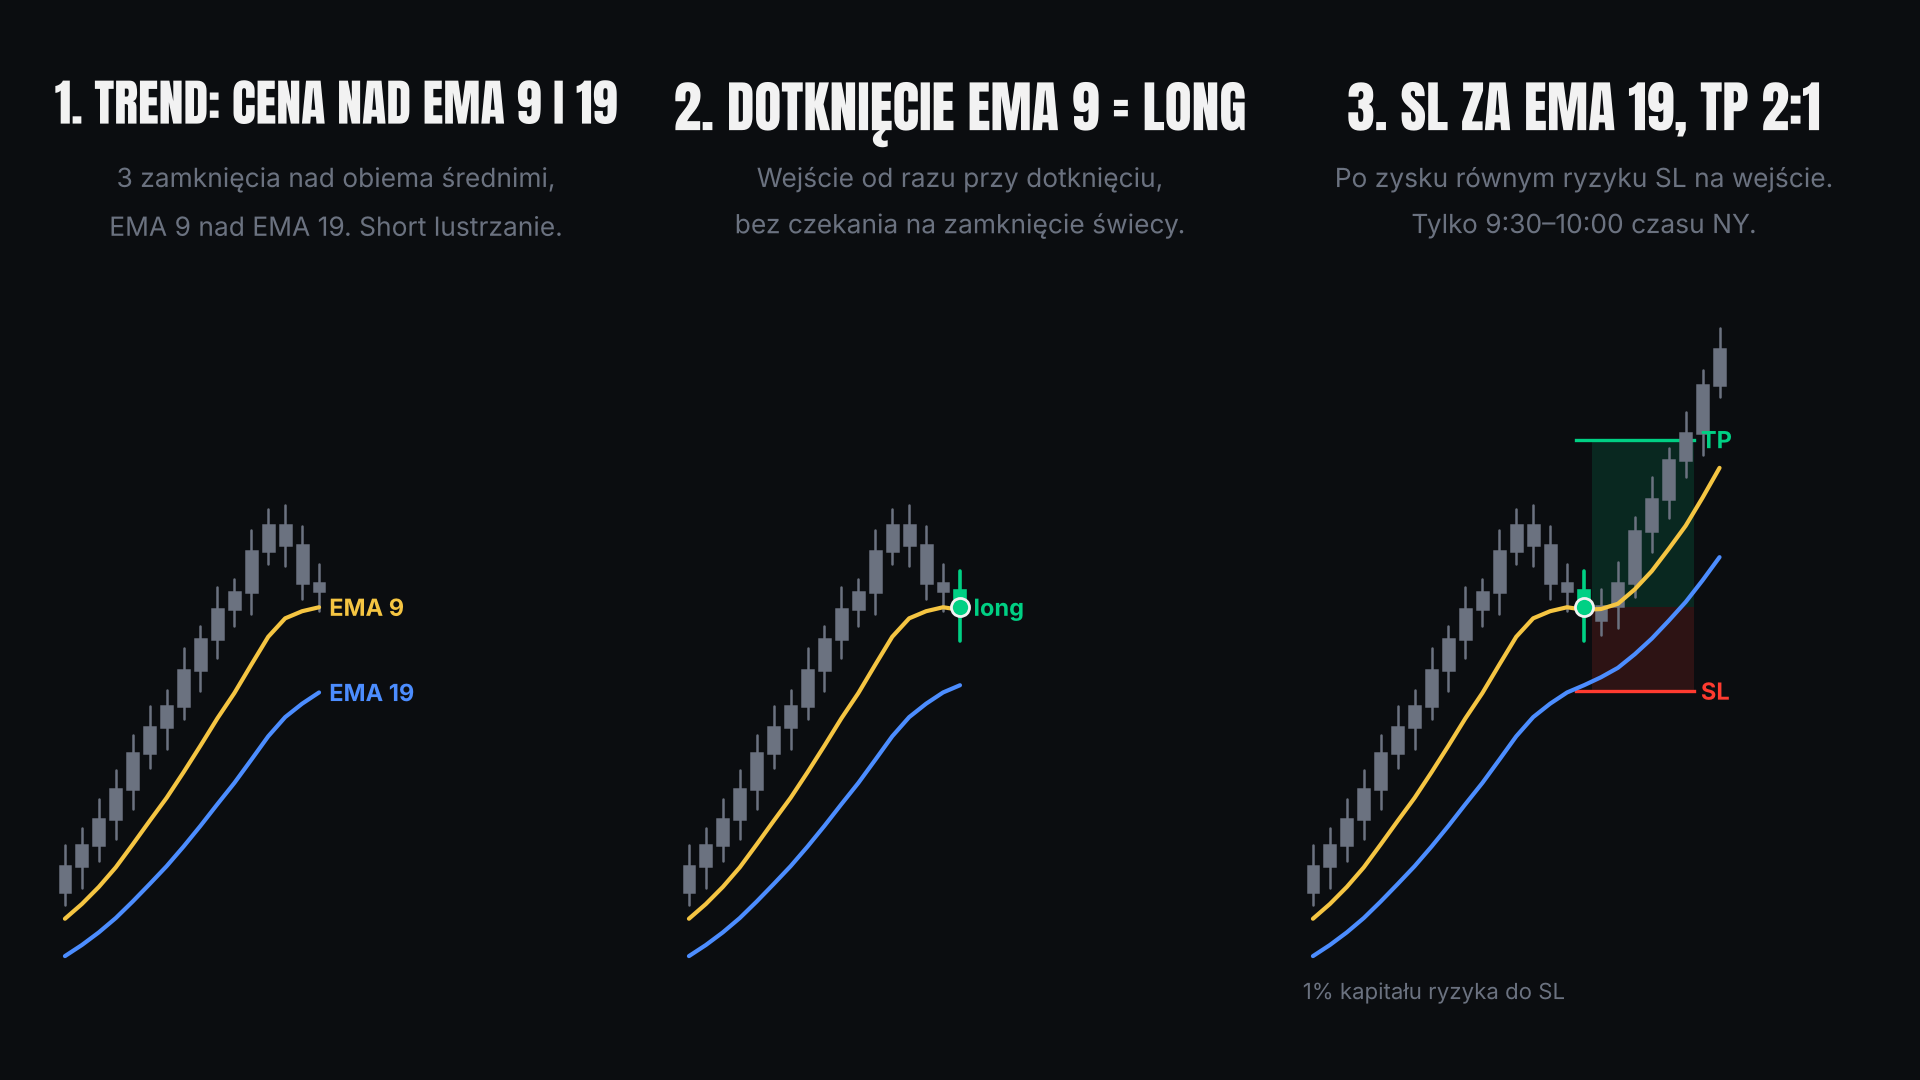
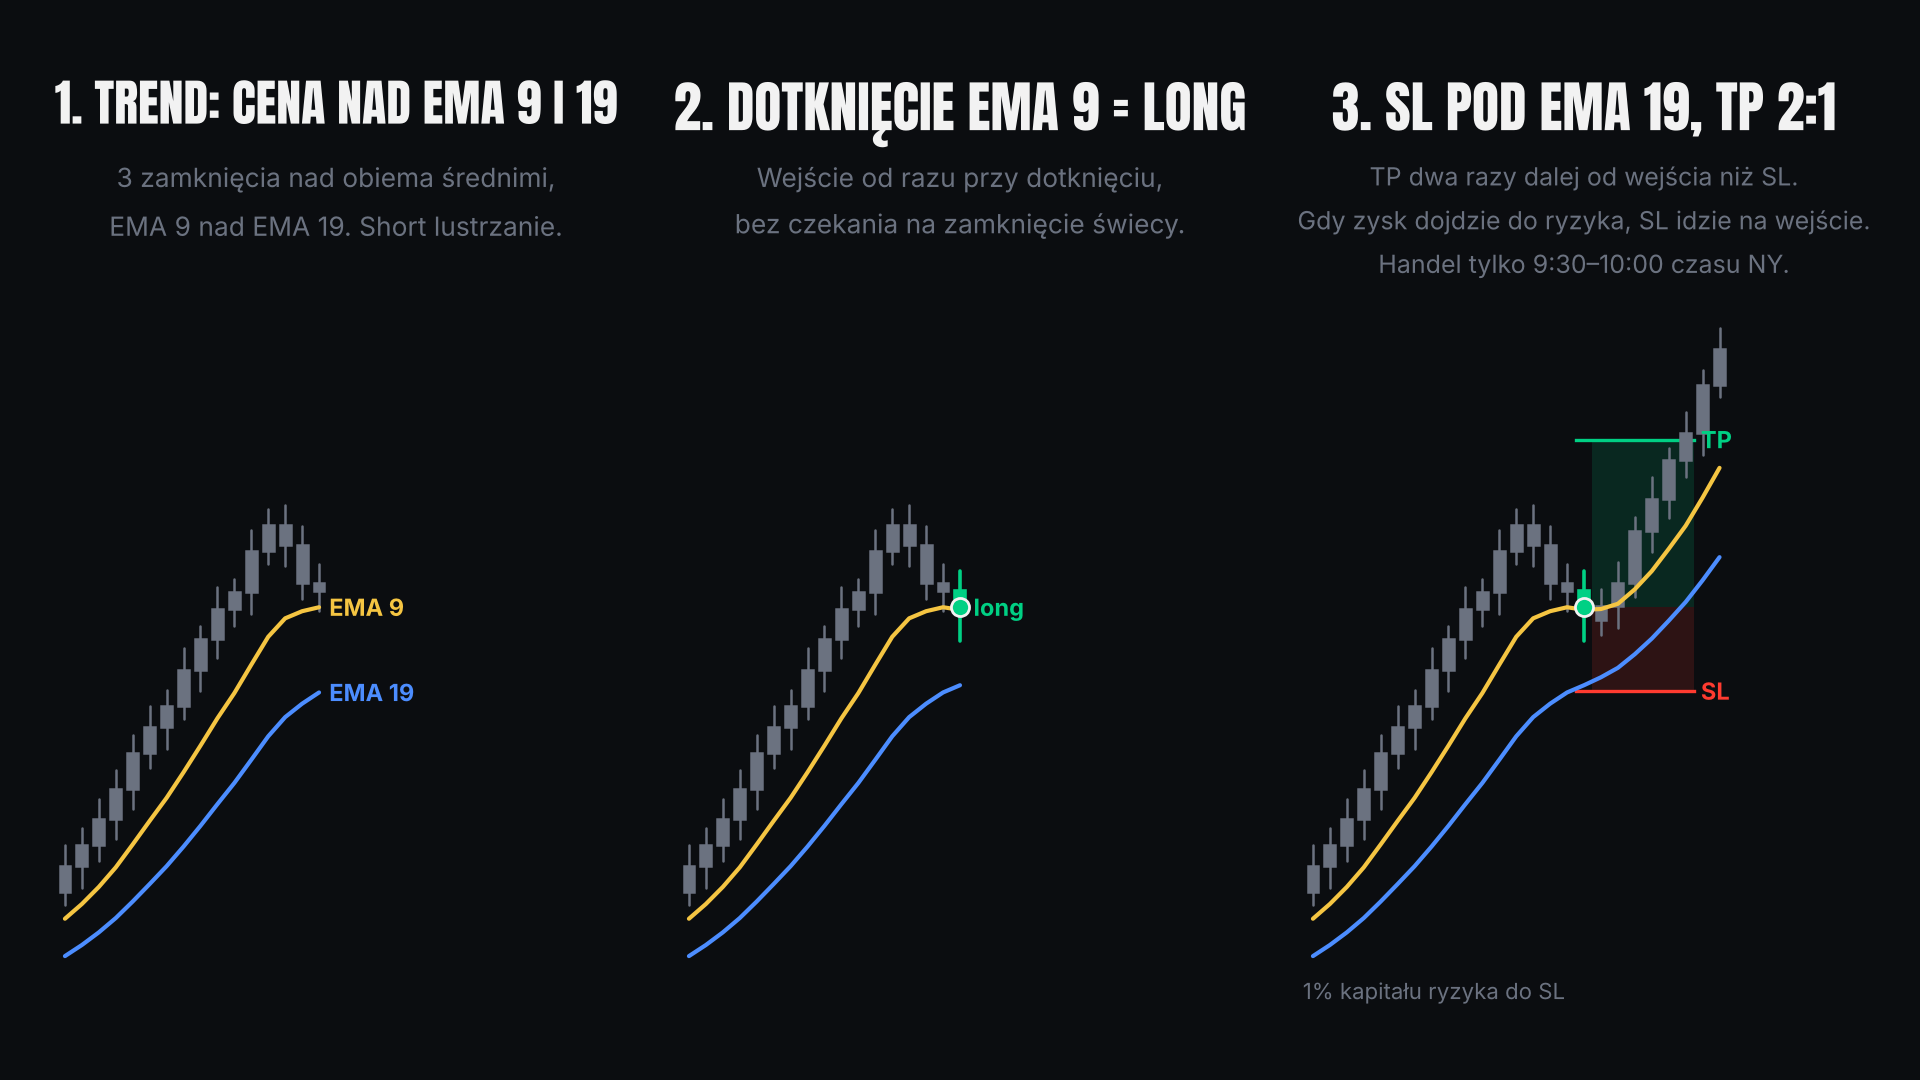
Plansza EMA 9/19: prostszy podpis segmentu 3
Claude-Session: https://claude.ai/code/session_01DmSsWBcz6xw89VZfSA4fdK

Changed region(s): [[0.6875, 0.1528, 0.9688, 0.275], [0.6875, 0.0611, 0.9688, 0.1222], [0.875, 0.2444, 0.9062, 0.275]]

diff --git a/narzedzia/plansze_objasniajace/reddit_plansze.py b/narzedzia/plansze_objasniajace/reddit_plansze.py
@@ -282,7 +282,7 @@ def ema9_19():
     s.line(e19, T + 1, BLUE)
     s.entry(T - 0.5, entry, GREEN, "long")
 
-    s = Seg(fig, 2, "3. SL ZA EMA 19, TP 2:1", "Po zysku równym ryzyku SL na wejście.\nTylko 9:30–10:00 czasu NY.", n, (lo, hi))
+    s = Seg(fig, 2, "3. SL POD EMA 19, TP 2:1", "TP dwa razy dalej od wejścia niż SL.\nGdy zysk dojdzie do ryzyka, SL idzie na wejście.\nHandel tylko 9:30–10:00 czasu NY.", n, (lo, hi))
     s.candles(B, n, {T: GREEN})
     s.line(e9, n, YELLOW)
     s.line(e19, n, BLUE)
